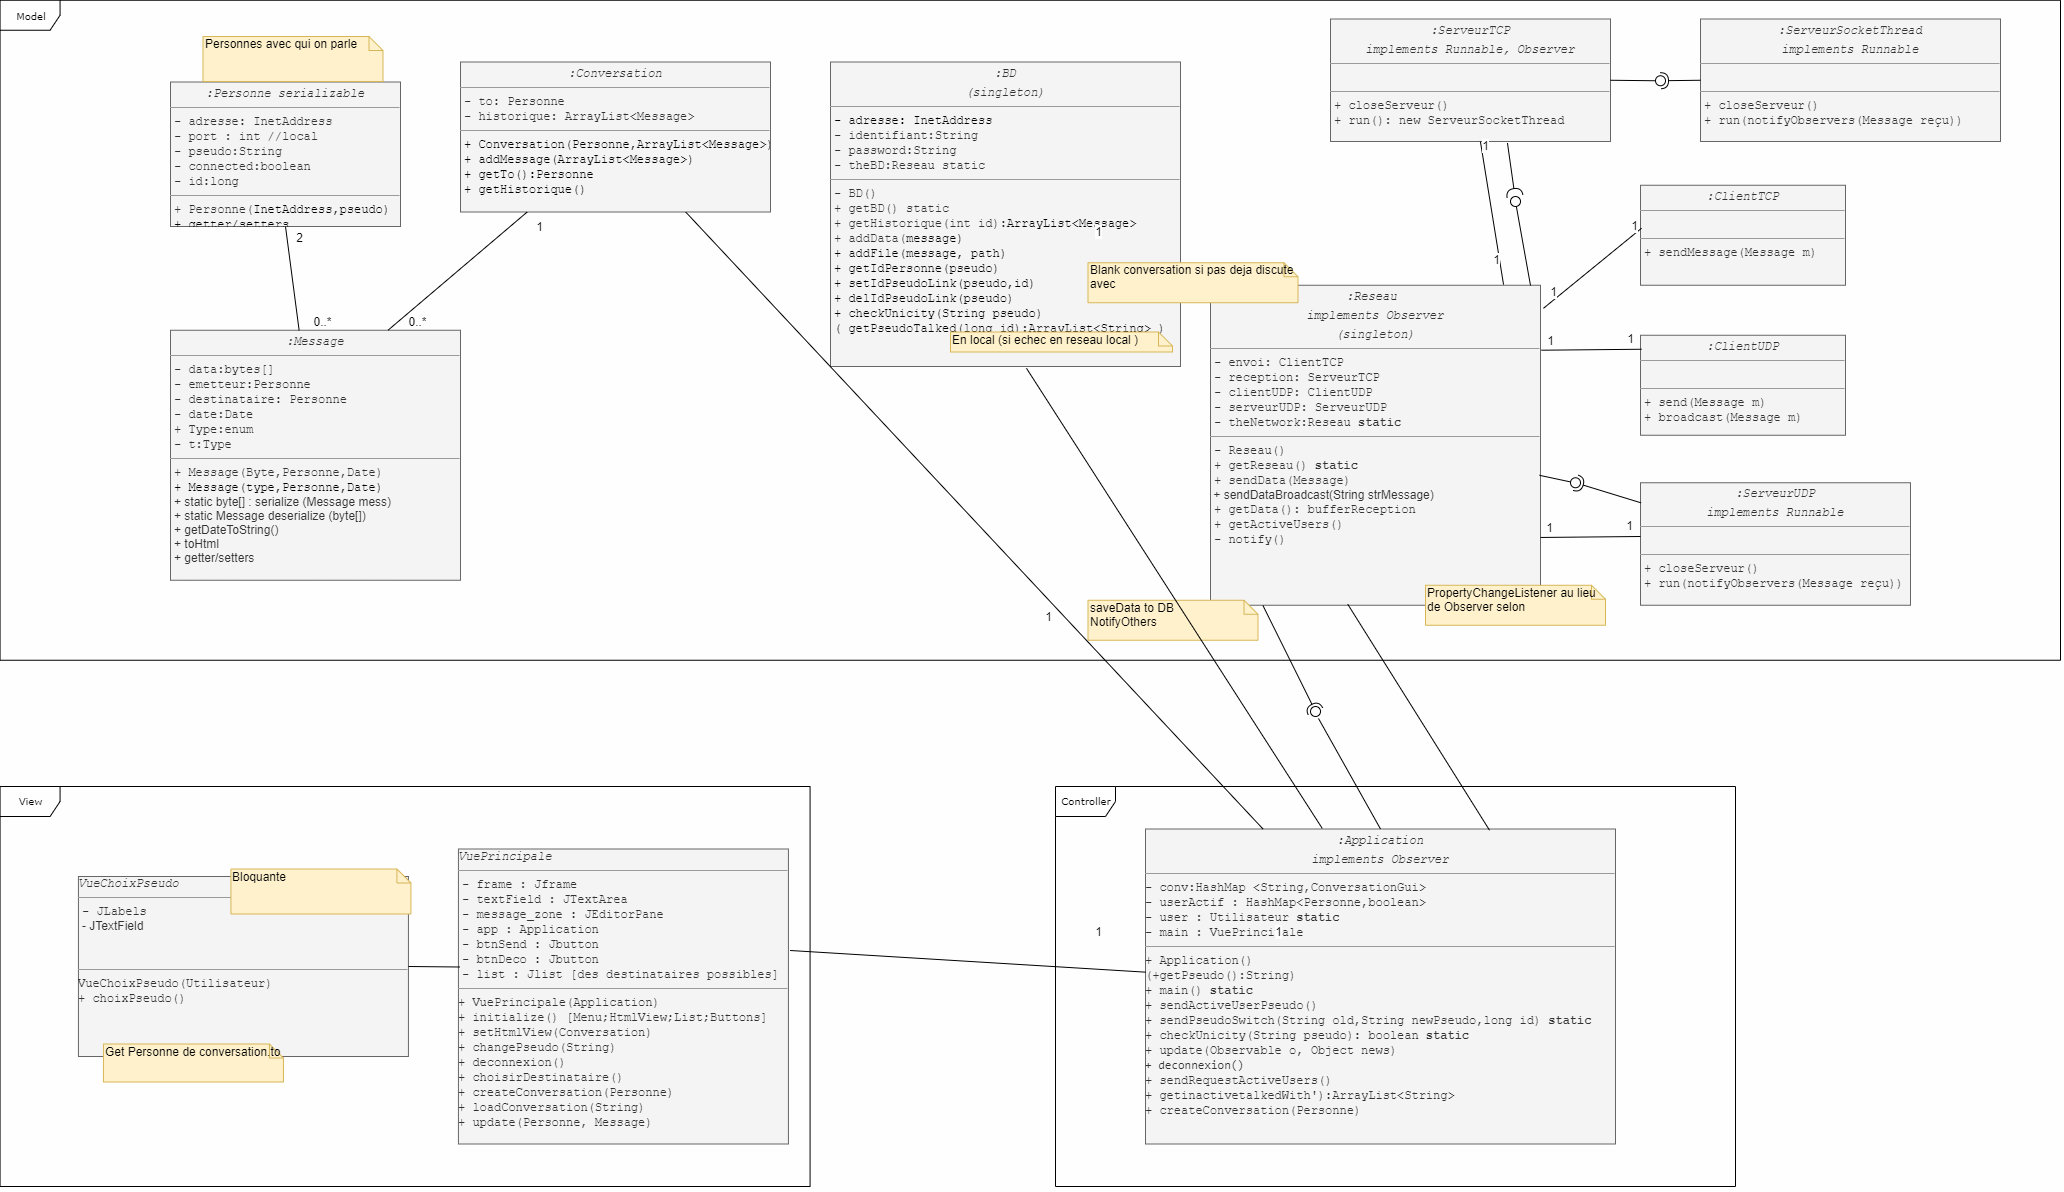
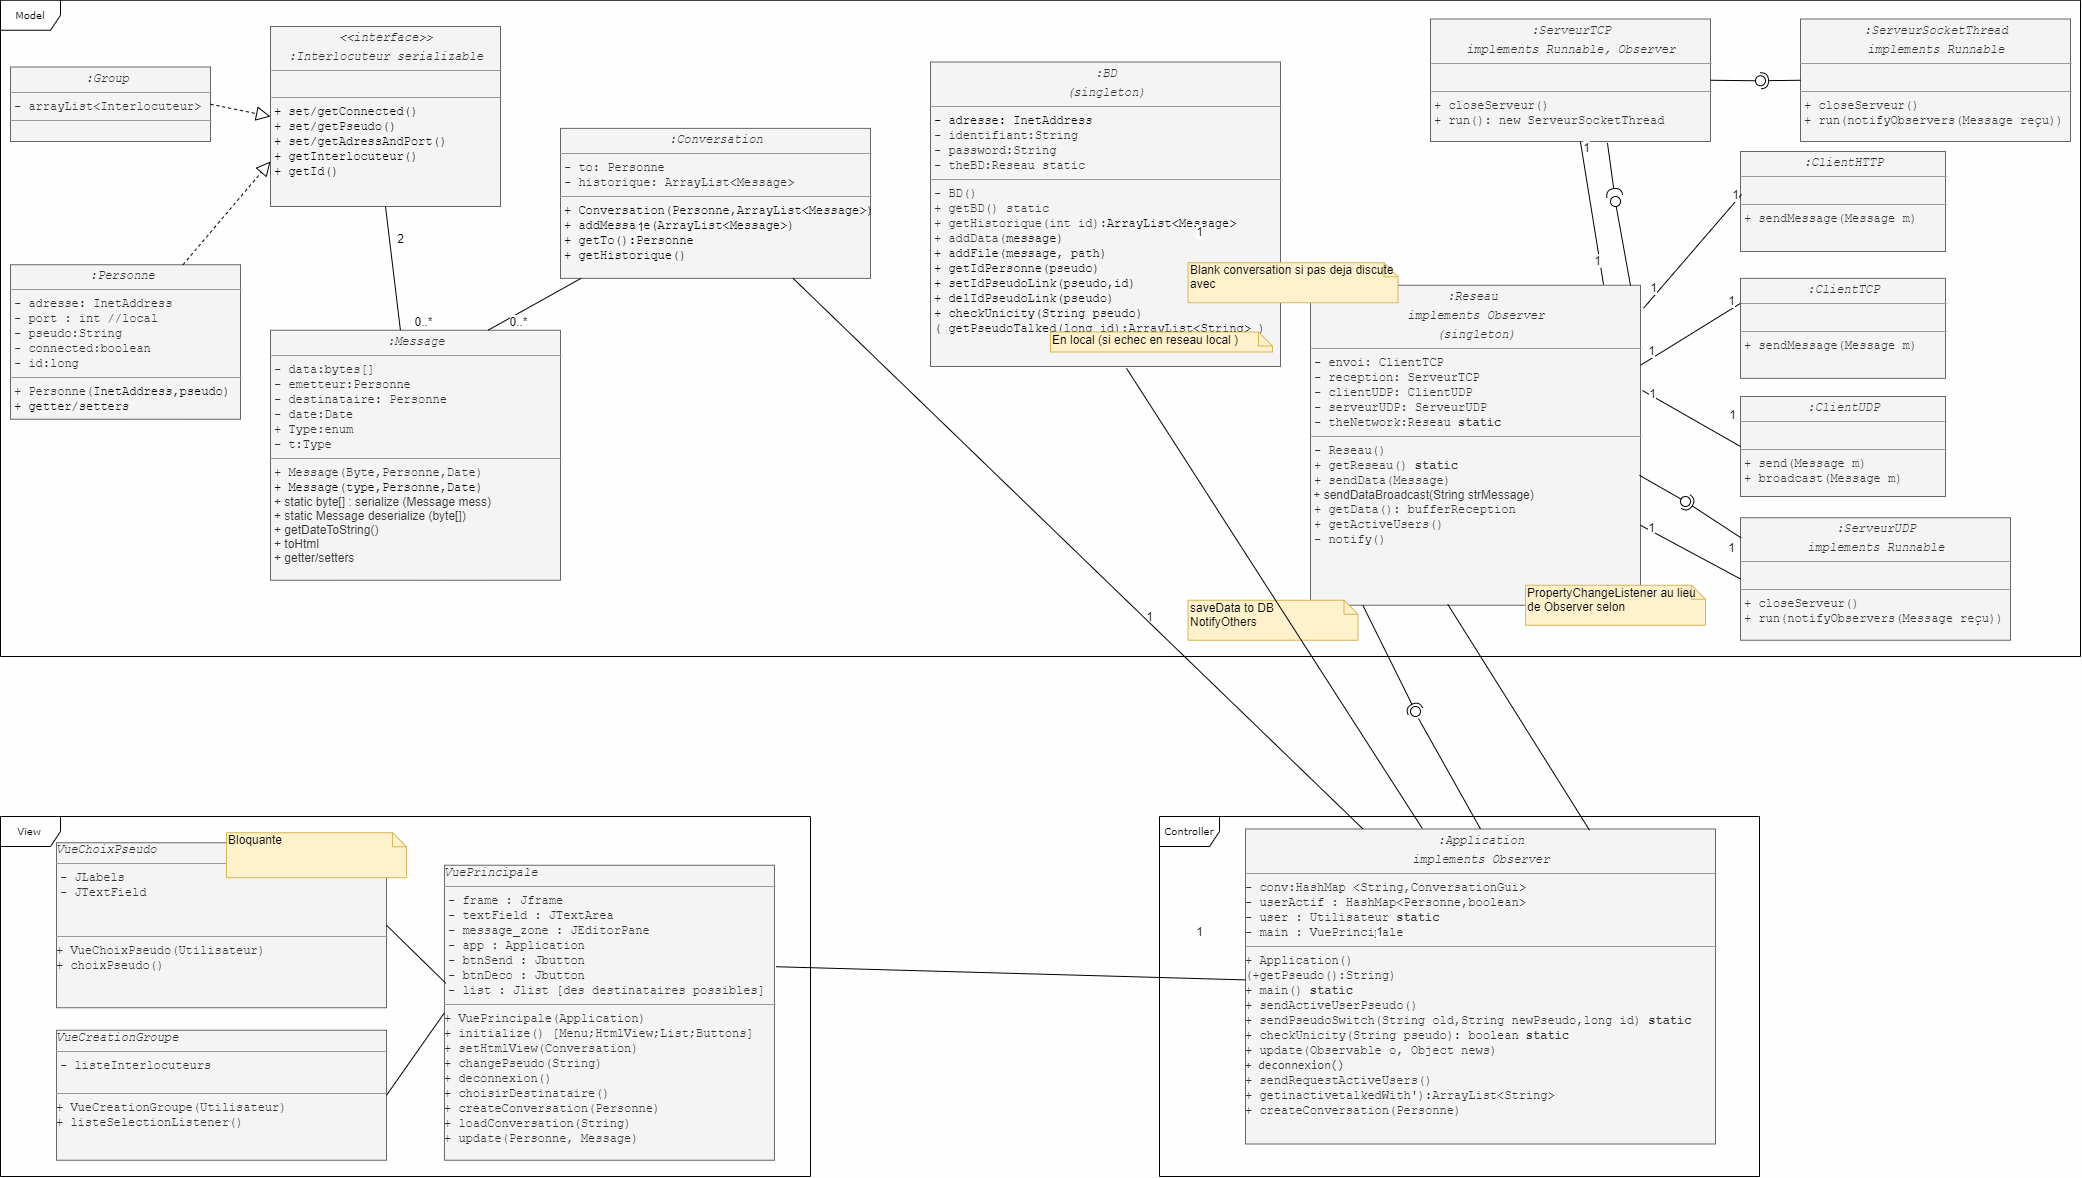
readme création groupe

diff --git a/techno.md b/techno.md
@@ -17,12 +17,9 @@ Ant permet également de d'archiver au format JAR ou WAR.<br>
 ini4j est une API Java simple pour gérer les fichiers de configuration au format .ini de Windows.<br>
 voir [`config.ini`](config.ini)
 
-### tcp hole punching
-Utile pour connecter deux hôtes d'un réseau privé naté qui essaient de se connecter l'un à l'autre avec des connexions TCP sortantes.
-
-### serveur HTTP
+### protocole HTTP
 HTTP (protocole de transfert hypertexte) est un protocole de la couche application. 
-Nous l'utilisons ici pour sa fiabilité (utilise TCP), sa large utilisation (donc pare-feu cléments) et pour la simplicité d'utilisation de ces primitives.
+Nous l'utilisons ici pour sa fiabilité (utilise TCP), sa large utilisation (donc pare-feu cléments) et pour la simplicité d'utilisation de ces primitives, pour les communications avec le serveur de présence.
 
 ### Design Pattern 
 #### Singleton
@@ -40,7 +37,32 @@ Nous l'utilisons ici pour sa fiabilité (utilise TCP), sa large utilisation (don
 #### Factory
 - Message
 
+#### Composite
+- Group - - > interlocuteurs < - - Personne
+
+
+### Choix technologiques envisagés sérieusement, finalement abandonnés
+#### Observers/Observable
+Depuis la version 9 de JAVA, Observers/Observable est deprecated\*. Nous avons finalement opté pour l'implémentation de `PropertyChangeListener`.
+
+\* (À l'usage Observers/Observable s'avérait limité : on ne pouvait par exemple pas sérialiser une classe `Observable` parce que n'implémentait pas la classe `Serializable` et que tous ses attributs étaient privés)
+
+#### tcp hole punching
+Le [`TCP hole punching`](https://en.wikipedia.org/wiki/TCP_hole_punching) permet de connecter deux hôtes d'un réseau privé naté. <br>
+Le principe consiste à identifier un hôte du réseau privé par l'adresse publique du NAT et d'un port et nécessite un serveur avec une adresse publique.
+- Les clients A, B se connectent au serveur de présence. Le serveur sauvegarde (@natA, portA) et (@natB, portB) utilisé par les clients pour la connexion.
+- Le serveur envoit respectivement à A et B : (@natB, portB) et (@natA, portA).
+- En utilisant ce couple de valeurs, les clients A et B peuvent continuer la communication en Peer2Peer.
+Le problème de cette technologie est la difficulté de son implémentation en Java. En effet, en Java il y a `Socket` et `ServerSocket`, du coup si on veut envoyer l'adresse sur laquelle on écoute (`ServerSocket` de `ServerTCP`) il faudrait créer un `Socket` avec le même port : ce qui provoque l'erreur `java.net.BindException: Address already in use`.
+L'utilisation de cette technologie aurait donc nécessité de créer un socket sur le port pour le send, le fermer et ouvrir immédiatement après un socketserveur sur le port, et ce, des 2 côtés ; et aurait alourdi le code. 
+Cette technologie a donc finalement été abandonnée au profit d'[`upnp`](https://en.wikipedia.org/wiki/Universal_Plug_and_Play) et sa librairie pour Java `org.bitlet.weupnp`.
+
+
+
 
 <br><br><br>
 [< Manuel d'utilisation](manuel.md)•[Choix d'implémentation >](choix.md)<br>
 retour au [sommaire](README.md)<br>
+
+
+

diff --git a/manuel.md b/manuel.md
@@ -6,6 +6,8 @@
 ![*Vue choix pseudo*](images/VueChoixPseudo.png)<br>
 *Vue principale :*<br>
 ![*Vue principale*](images/VuePrincipale.png)<br>
+*Vue création groupe :*<br>
+![*Vue création groupe*](images/VueCreationGroupe.png)<br>
 
 ### Lancement
 Lancer l'application après une première compilation:<br>
@@ -16,13 +18,16 @@ Au lancement de l'application, *Vue Choix Pseudo* s'ouvre.<br>
 Renseignez votre pseudo et cliquez sur `↵enter`.<br>
 *Vue Choix Pseudo* sera ensuite accessible à n'importe quel moment par le `bouton changement pseudo` de la *Vue principale*.
 
+### Créer un groupe
+Dans la *Vue principale*, `menu fichier`/`Créer un groupe` pour ouvrir la *Vue création groupe*. Puis sélectionner (`CTRL` + `clic`) au moins deux personnes "pseudo1" et "pseudo2" disponibles. Pour s'adresser à ce groupe sélectionner la nouvelle entrée dans la `zone de découverte` au nom de "□pseudo1:pseudo2"
+
 ### Envoyer/recevoir un message
 Dans la *Vue principale*, écrire un message dans la `zone de texte`.<br>
 Envoyez-le en cliquant sur le `bouton d'envoi` ou `SHIFT` + `↵enter`.<br> 
 N'hésitez pas à écrire des liens url `https://google.com` : ils sont cliquables !
 
 ### Envoyer/recevoir un fichier
-Dans la *Vue principale*, choisir un fichier à envoyer par le `bouton envoi fichier` de la *Vue principale* ou par ou `SHIFT + F`.<br> 
+Dans la *Vue principale*, choisir un fichier à envoyer par le `bouton envoi fichier` de la *Vue principale* ou par ou `SHIFT` + `F`.<br> 
 Les liens des noms de fichiers sont cliquables !
 
 ### Résoudre problèmes de connexion
@@ -45,7 +50,7 @@ Changer dossier de téléchargement : `ALT` + `C`<br>
 Changer de pseudo  : `ALT` + `P`<br>
 
 NB: Les noms des fichiers reçus sont cliquables ! <br>
-Et les liens écrits à la volée e.g. `https://google.com` aussi !
+Et les liens écrits à la volée e.g. `https://google.com` aussi ! <br>
 <br><br><br>
 [< Installation](installation.md)•[Technologie >](techno.md)<br>
 retour au [sommaire](README.md)<br>

diff --git a/README.md b/README.md
@@ -1,7 +1,8 @@
 # SuperClavardeur™ ![logo](images/icon22.png)
 SuperClavardeur™ est une messagerie instantanée par pseudonyme destinée à accroître l'efficacité d'une équipe en permettant l'envoi simplifié de messages et de fichiers.
 SuperClavardeur™ est décentralisée dans une utilisation en réseau local.
-L'application permet également une utilisation internet mais requiert [l'installation d'un serveur de présence](installation.md).
+L'application permet également une utilisation internet mais requiert la mise en place d'un serveur de présence. 
+L'envoi et réception des messages avec l'internet se fait en Peer-to-Peer.
 
 ## Fonctionnalités principales
 - Choix et gestion d'un nouveau pseudo unique
@@ -10,6 +11,7 @@ L'application permet également une utilisation internet mais requiert [l'instal
 - Envoi/réception de messages entre utilisateurs
 - Envoi/réception de fichiers entre utilisateurs
 - Gestion de l'historique (avec recherche et affichage) des anciens messages
+- Gestion de groupes de discussion
 
 ## Sommaire
 - [Installation](installation.md)

diff --git a/installation.md b/installation.md
@@ -1,12 +1,13 @@
 ## Installation
 ### Terminal
-**prérequis** : JVM ?<br>
+**prérequis** : [`Java SE 11`](https://www.oracle.com/technetwork/java/javase/downloads/jdk11-downloads-5066655.html "oracle.com/downloads") & [`ant`](https://ant.apache.org/srcdownload.cgi)<br>
 Dans le dossier de votre choix, cloner le projet :<br>
 ```git clone https://github.com/usernamedjpris/clavardage.git```<br>
 Compiler le projet :<br>
 ```ant```<br>
-### Serveur de présence
+### Serveur de présence (facultatif)
 Lancer le [clavardeur.war](war/) sur un serveur.
+NB : Un serveur de présence est déjà en service. Il n'est pas nécessaire d'en installer un autre pour utiliser les fonctionnalités internets de l'application.
 <br><br><br>
 [Manuel d'utilisation >](manuel.md "manuel >")<br>
 retour au [sommaire](README.md)<br>

diff --git a/choix.md b/choix.md
@@ -77,8 +77,7 @@ voir le [diagramme de séquence](conception/seqdiagram_changerpseudo.png)
 1. Lancer SuperClavardeur™ et se connecter
 2. Cliquer sur `bouton création groupe` de la *Vue principale*
 	- *Vue Création Groupe* s'ouvre
-3. Rentrer le nom du groupe
-4. Sélectionner des utilisateurs 
+3. Sélectionner des utilisateurs 
 	- le programme notifie de la création de groupe aux autres utilisateurs `Message.Type =`**`GROUPCREATION`**
 	- le programme ajoute le nouveau groupe dans la *Vue principale*
 	- *Vue Création Groupe* se ferme
